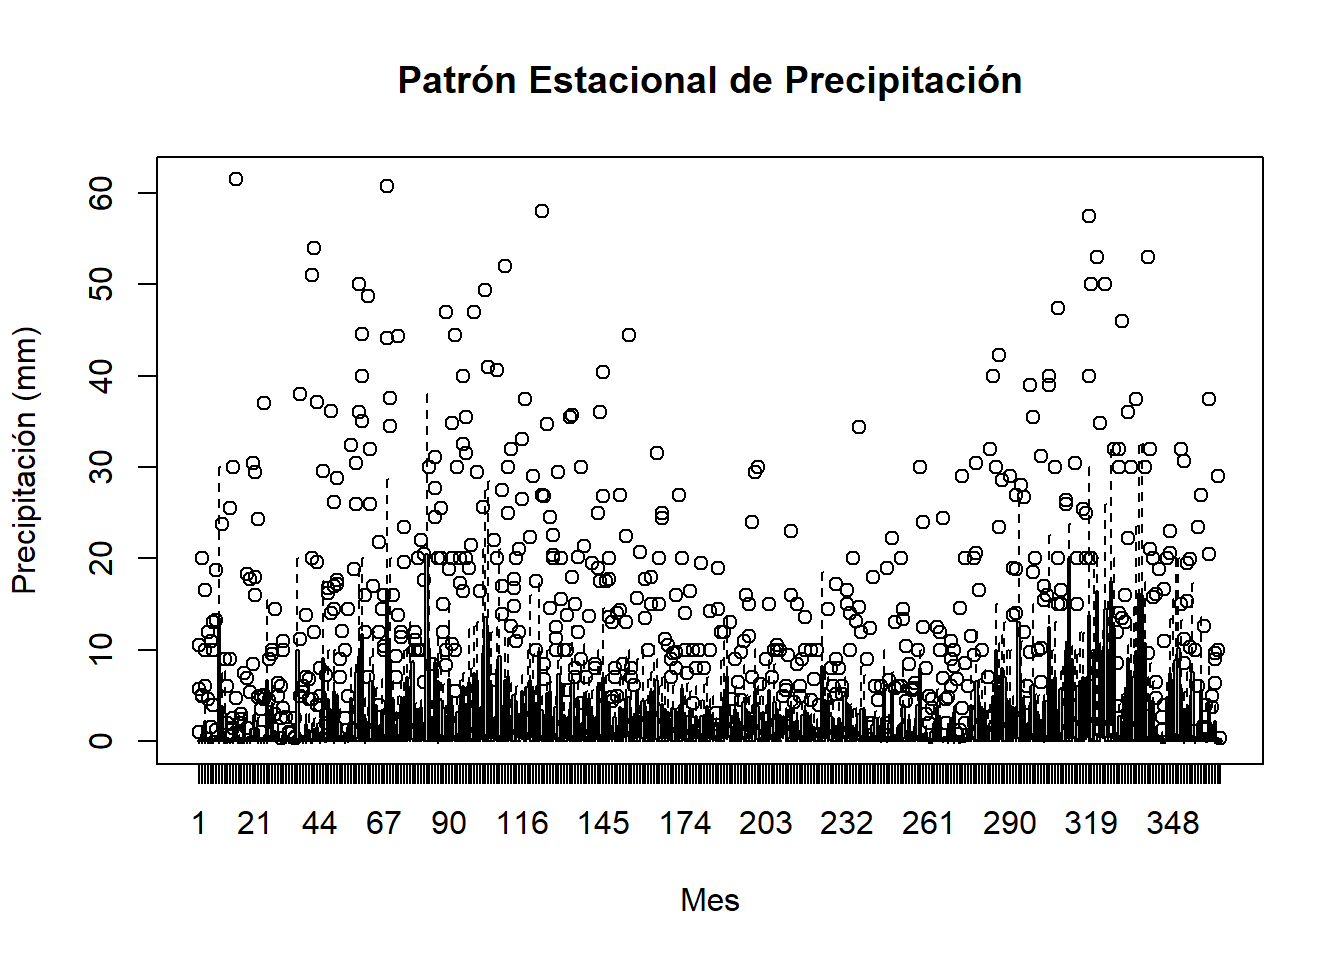
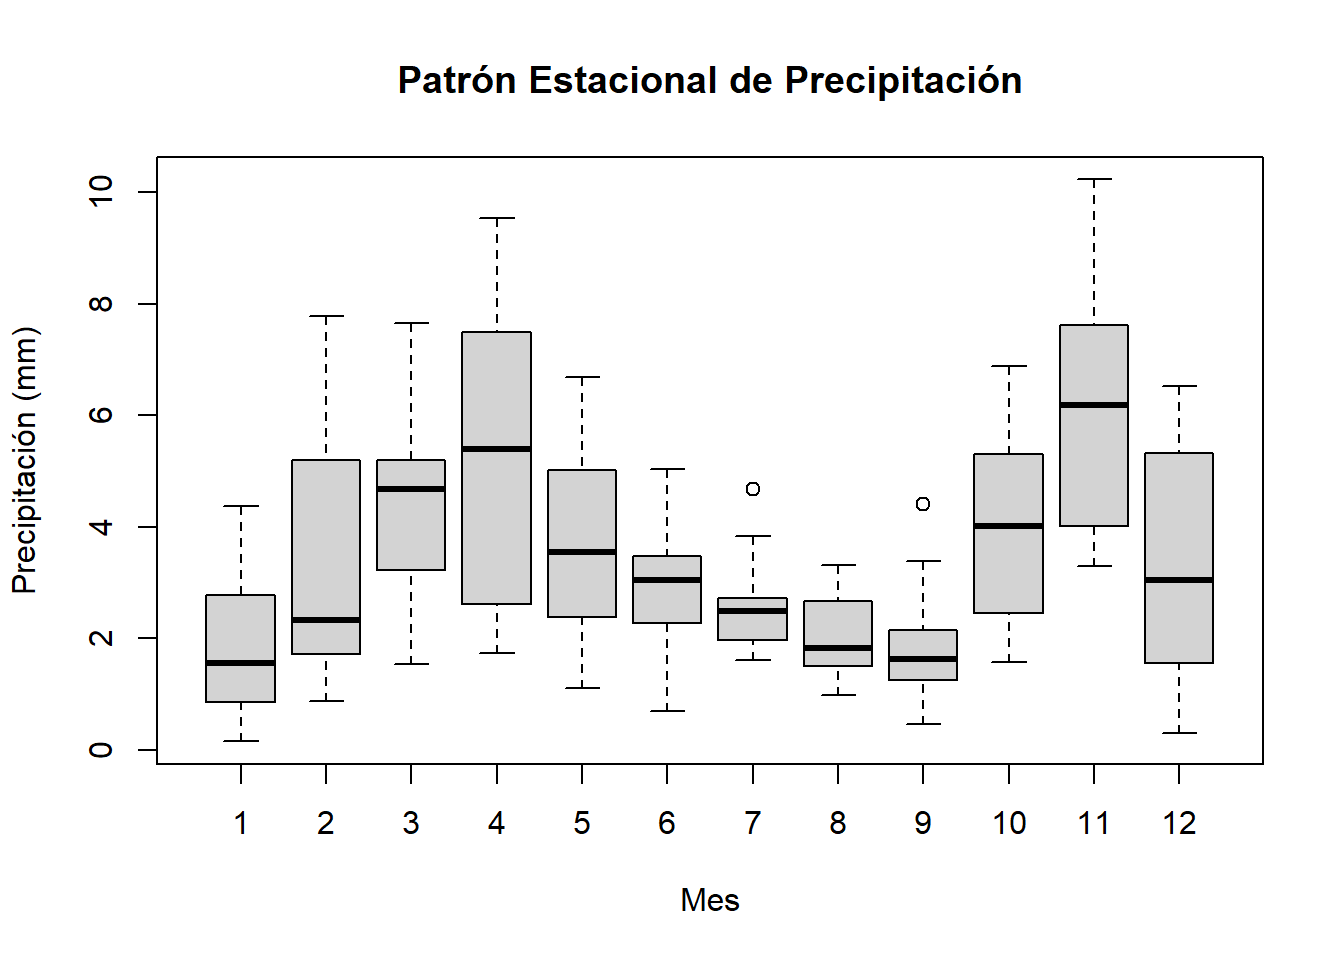
cr

diff --git a/docs/modelos-estacionarios.html b/docs/modelos-estacionarios.html
@@ -247,7 +247,7 @@ code span.wa { color: #da4453; } /* Warning */
 <li>Análisis exploratorio de la serie temporal</li>
 <li>Verificación de estacionariedad</li>
 <li>Transformaciones necesarias para lograr estacionariedad</li>
-<li>Ajuste de modelos ARIMA</li>
+<li>Ajuste de modelos ARIMA (Autoregressive Integrated Moving Average)</li>
 <li>Validación de residuales</li>
 <li>Generación de pronósticos</li>
 </ol>
@@ -258,19 +258,18 @@ code span.wa { color: #da4453; } /* Warning */
 <div class="sourceCode" id="cb31"><pre class="sourceCode r"><code class="sourceCode r"><span id="cb31-1"><a href="modelos-estacionarios.html#cb31-1" tabindex="-1"></a><span class="co"># Visualización inicial de la serie</span></span>
 <span id="cb31-2"><a href="modelos-estacionarios.html#cb31-2" tabindex="-1"></a><span class="fu">plot</span>(ts_lluvia, <span class="at">main =</span> <span class="st">&quot;Serie Original de Precipitación&quot;</span>,</span>
 <span id="cb31-3"><a href="modelos-estacionarios.html#cb31-3" tabindex="-1"></a>     <span class="at">xlab =</span> <span class="st">&quot;Tiempo&quot;</span>, <span class="at">ylab =</span> <span class="st">&quot;Precipitación (mm)&quot;</span>,</span>
-<span id="cb31-4"><a href="modelos-estacionarios.html#cb31-4" tabindex="-1"></a>     <span class="at">col =</span> <span class="st">&quot;darkblue&quot;</span>)</span>
-<span id="cb31-5"><a href="modelos-estacionarios.html#cb31-5" tabindex="-1"></a><span class="fu">abline</span>(<span class="at">reg =</span> <span class="fu">lm</span>(ts_lluvia <span class="sc">~</span> <span class="fu">time</span>(ts_lluvia)), <span class="at">col =</span> <span class="st">&quot;red&quot;</span>)</span></code></pre></div>
+<span id="cb31-4"><a href="modelos-estacionarios.html#cb31-4" tabindex="-1"></a>     <span class="at">col =</span> <span class="st">&quot;darkblue&quot;</span>)</span></code></pre></div>
 </details>
 <p><img src="bookdown-demo_files/figure-html/unnamed-chunk-28-1.png" width="672" /></p>
 <p>La serie muestra una alta variabilidad con valores que oscilan principalmente entre 0 y 40 mm de precipitación diaria, con algunos valores extremos que alcanzan los 60 mm. Se observa una ligera tendencia descendente a lo largo del período, particularmente visible después de 2015.</p>
 <details class=chunk-details><summary class=chunk-summary><span class=chunk-summary-text>Code</span></summary>
 <div class="sourceCode" id="cb32"><pre class="sourceCode r"><code class="sourceCode r"><span id="cb32-1"><a href="modelos-estacionarios.html#cb32-1" tabindex="-1"></a><span class="co"># Análisis de ciclo estacional</span></span>
-<span id="cb32-2"><a href="modelos-estacionarios.html#cb32-2" tabindex="-1"></a><span class="fu">boxplot</span>(ts_lluvia <span class="sc">~</span> <span class="fu">cycle</span>(ts_lluvia), </span>
+<span id="cb32-2"><a href="modelos-estacionarios.html#cb32-2" tabindex="-1"></a><span class="fu">boxplot</span>(ts_mensual <span class="sc">~</span> <span class="fu">cycle</span>(ts_mensual), </span>
 <span id="cb32-3"><a href="modelos-estacionarios.html#cb32-3" tabindex="-1"></a>        <span class="at">main =</span> <span class="st">&quot;Patrón Estacional de Precipitación&quot;</span>,</span>
 <span id="cb32-4"><a href="modelos-estacionarios.html#cb32-4" tabindex="-1"></a>        <span class="at">xlab =</span> <span class="st">&quot;Mes&quot;</span>, <span class="at">ylab =</span> <span class="st">&quot;Precipitación (mm)&quot;</span>)</span></code></pre></div>
 </details>
 <p><img src="bookdown-demo_files/figure-html/unnamed-chunk-29-1.png" width="672" /></p>
-<p>La estacionalidad se evidencia claramente en el segundo gráfico, donde se distingue un patrón irregular de precipitaciones a lo largo del año. Este patrón muestra una mayor concentración de eventos de precipitación intensa en ciertos períodos específicos, junto con la presencia de numerosos días sin lluvia, representados por valores cercanos a cero. Además, se observa una notable variabilidad en la intensidad de las precipitaciones, con valores extremos que se distribuyen de manera no uniforme a lo largo del tiempo.</p>
+<p>La estacionalidad de las precipitaciones se evidencia claramente en el gráfico, donde se observan patrones distintivos a lo largo del año. Los meses 4 (abril) y 11 (noviembre) presentan las mayores medianas de precipitación y mayor dispersión, como se observa en el tamaño de las cajas. Los meses de julio a septiembre (7-9) muestran una notable disminución en las precipitaciones, con cajas más pequeñas y medianas más bajas, indicando un período más seco y con menor variabilidad. Se observan algunos valores atípicos (outliers) especialmente en los meses 7 y 10, representados por puntos individuales, que indican eventos de lluvia inusualmente intensos para esos meses. La transición entre estaciones húmedas y secas no es abrupta, sino que muestra cambios graduales, con meses intermedios como mayo (5) y octubre (10) que presentan niveles moderados de precipitación.</p>
 </div>
 <div id="verificación-y-transformación-para-estacionariedad" class="section level3 hasAnchor" number="5.1.2">
 <h3><span class="header-section-number">5.1.2</span> Verificación y Transformación para Estacionariedad<a href="modelos-estacionarios.html#verificación-y-transformación-para-estacionariedad" class="anchor-section" aria-label="Anchor link to header"></a></h3>
@@ -383,8 +382,8 @@ code span.wa { color: #da4453; } /* Warning */
 </ol>
 <ul>
 <li>La serie diferenciada muestra estadísticos ADF aún más extremos, con valores desde -107.6 hasta -35.3</li>
-<li>Mantiene la significancia estadística (p ≤ 0.01) en todos los casos
--Los resultados son robustos a través de los diferentes tipos de prueba y rezagos</li>
+<li>Mantiene la significancia estadística (p ≤ 0.01) en todos los casos</li>
+<li>Los resultados son robustos a través de los diferentes tipos de prueba y rezagos</li>
 </ul>
 </div>
 <div id="ajuste-del-modelo-arima" class="section level3 hasAnchor" number="5.1.3">
